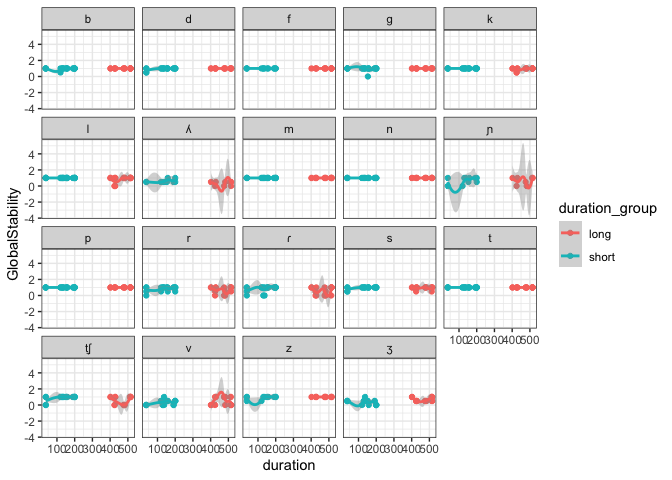
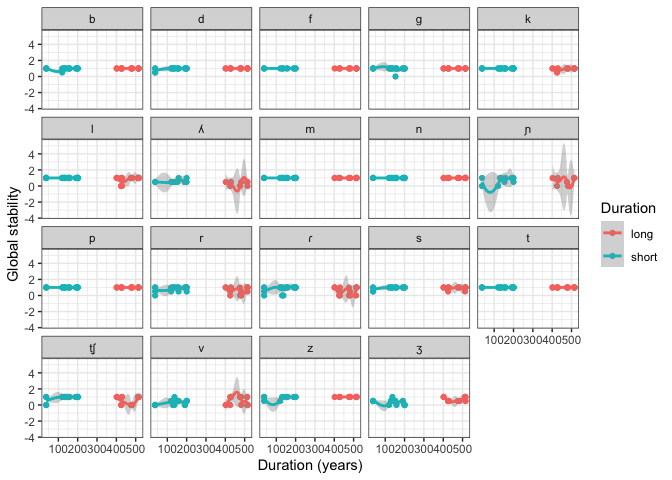
edits

diff --git a/README.md b/README.md
@@ -1,16 +1,15 @@
 Supplementary materials for: Consonant stability in Portuguese-based
 creoles
 ================
-Steven Moran, Carlos Silva and Nicholas A. Lester
 (03 January, 2023)
 
 -   <a href="#overview" id="toc-overview">Overview</a>
 -   <a href="#creole-stability" id="toc-creole-stability">Creole
     stability</a>
 -   <a href="#duration" id="toc-duration">Duration</a>
-    -   <a href="#duration-efects-on-the-segment-level"
-        id="toc-duration-efects-on-the-segment-level">Duration efects on the
-        segment level</a>
+-   <a href="#duration-effects-on-the-segment-level"
+    id="toc-duration-effects-on-the-segment-level">Duration effects on the
+    segment level</a>
 -   <a href="#segment-stability" id="toc-segment-stability">Segment
     stability</a>
 -   <a href="#word-position" id="toc-word-position">Word position</a>
@@ -18,13 +17,16 @@ Steven Moran, Carlos Silva and Nicholas A. Lester
     id="toc-conditions-of-contact">Conditions of contact</a>
 -   <a href="#references" id="toc-references">References</a>
 
+<!-- author: "Steven Moran, Carlos Silva and Nicholas A. Lester" -->
+
 # Overview
 
 <!-- Supplementary materials for [Consonant Stability in Portuguese-based creoles](https://www.overleaf.com/project/60cdac0dd5871295e0f608fc). Silva, Carlos and Steven Moran. Work in progress. -->
 
 Supplementary materials for, “Consonant Stability in Portuguese-based
-creoles”. In this report, we provide code in R (R Core Team 2021) and we
-use these R libraries (Wickham et al. 2019; Xie 2021; Slowikowski 2022):
+creoles”. In this report, we provide code in R (RStudio Team 2020) and
+we use these R libraries (Wickham et al. 2019; Xie 2021; Slowikowski
+2022):
 
 ``` r
 library(tidyverse)
@@ -147,7 +149,9 @@ overall stability.
 
 ``` r
 ggplot(creole_stability, aes(x=duration, y=MeanStability)) +
-  geom_point()
+  geom_point() +
+  xlab("Duration (years)") +
+  ylab("Mean stability")
 ```
 
 ![](README_files/figure-gfm/unnamed-chunk-11-1.png)<!-- -->
@@ -155,7 +159,9 @@ ggplot(creole_stability, aes(x=duration, y=MeanStability)) +
 ``` r
 ggplot(creole_stability, aes(x=duration, y=MeanStability)) +
   geom_point() +
-  geom_text_repel(aes(label = creole_stability$Language))
+  geom_text_repel(aes(label = creole_stability$Language)) +
+  xlab("Duration (years)") +
+  ylab("Mean stability")
 ```
 
 ![](README_files/figure-gfm/duration_mean_stability-1.png)<!-- -->
@@ -200,7 +206,9 @@ tmp_long <- creole_stability %>% filter(duration > 200)
 
 ``` r
 ggplot(tmp_short, aes(x=duration, y=MeanStability)) +
-  geom_point()
+  geom_point() +
+  xlab("Duration (years)") +
+  ylab("Mean stability")
 ```
 
 ![](README_files/figure-gfm/unnamed-chunk-14-1.png)<!-- -->
@@ -208,22 +216,18 @@ ggplot(tmp_short, aes(x=duration, y=MeanStability)) +
 ``` r
 ggplot(tmp_short, aes(x=duration, y=MeanStability)) +
   geom_point() +
-  geom_text(label=tmp_short$Language)
+  geom_text_repel(aes(label = tmp_short$Language)) +
+  xlab("Duration (years)") +
+  ylab("Mean stability")
 ```
 
 ![](README_files/figure-gfm/unnamed-chunk-14-2.png)<!-- -->
 
 ``` r
-ggplot(tmp_short, aes(x=duration, y=MeanStability)) +
-  geom_point() +
-  geom_text_repel(aes(label = tmp_short$Language))
-```
-
-![](README_files/figure-gfm/unnamed-chunk-14-3.png)<!-- -->
-
-``` r
 ggplot(tmp_long, aes(x=duration, y=MeanStability)) +
-  geom_point()
+  geom_point() +
+  xlab("Duration (years)") +
+  ylab("Mean stability")
 ```
 
 ![](README_files/figure-gfm/unnamed-chunk-15-1.png)<!-- -->
@@ -231,18 +235,12 @@ ggplot(tmp_long, aes(x=duration, y=MeanStability)) +
 ``` r
 ggplot(tmp_long, aes(x=duration, y=MeanStability)) +
   geom_point() +
-  geom_text(label=tmp_long$Language)
+  geom_text_repel(aes(label = tmp_long$Language)) +
+  xlab("Duration (years)") +
+  ylab("Mean stability")
 ```
 
 ![](README_files/figure-gfm/unnamed-chunk-15-2.png)<!-- -->
-
-``` r
-ggplot(tmp_long, aes(x=duration, y=MeanStability)) +
-  geom_point() +
-  geom_text_repel(aes(label = tmp_long$Language))
-```
-
-![](README_files/figure-gfm/unnamed-chunk-15-3.png)<!-- -->
 
 Or perhaps a single model with an interaction term MeanSim \~ duration,
 group \* duration.
@@ -275,12 +273,15 @@ summary(msd)
 ``` r
 ggplot(creole_stability, aes(x = duration, y = MeanStability, color = duration_group)) +
   geom_smooth(method = "lm") +
-  geom_point()
+  geom_point() +
+  xlab("Duration (years)") +
+  ylab("Mean stability") +
+  labs(color = "Duration group")
 ```
 
     ## `geom_smooth()` using formula 'y ~ x'
 
-![](README_files/figure-gfm/unnamed-chunk-16-1.png)<!-- -->
+![](README_files/figure-gfm/duration_groups-1.png)<!-- -->
 
 The variability in the two groups is very different. The direction of
 the effect is interesting: shorter durations yield more stability more
@@ -434,7 +435,7 @@ note that the model detected a mean difference between duration groups,
 with the short group having (slightly) lower mean stability. This
 appears to be the case but – again – so few observations.
 
-## Duration efects on the segment level
+# Duration effects on the segment level
 
 Does duration affect the stability values of specific segments or
 segment classes?
@@ -443,7 +444,10 @@ segment classes?
 ggplot(database, aes(duration, MannerStability, colour=duration_group)) + 
   geom_point() + 
   geom_smooth(method = "lm") +
-  facet_wrap(~Class)
+  facet_wrap(~Class) +
+  xlab("Duration (years)") +
+  ylab("Manner stability") +
+  labs(color="Duration")
 ```
 
     ## `geom_smooth()` using formula 'y ~ x'
@@ -458,7 +462,10 @@ ggplot(database, aes(duration, MannerStability, colour=duration_group)) +
 ggplot(database, aes(duration, GlobalStability, colour=duration_group)) + 
   geom_point() + 
   geom_smooth() +
-  facet_wrap(~Class)
+  facet_wrap(~Class) +
+  xlab("Duration (years)") +
+  ylab("Global stability") +
+  labs(color="Duration")
 ```
 
     ## `geom_smooth()` using method = 'loess' and formula 'y ~ x'
@@ -473,7 +480,10 @@ ggplot(database, aes(duration, GlobalStability, colour=duration_group)) +
 ggplot(database, aes(duration, PlaceStability, colour=duration_group)) + 
   geom_point() + 
   geom_smooth(method = "lm") +
-  facet_wrap(~LexifierPhoneme)
+  facet_wrap(~LexifierPhoneme)  +
+  xlab("Duration (years)") +
+  ylab("Place stability") +
+  labs(color="Duration")
 ```
 
     ## `geom_smooth()` using formula 'y ~ x'
@@ -488,7 +498,10 @@ ggplot(database, aes(duration, PlaceStability, colour=duration_group)) +
 ggplot(database, aes(duration, MannerStability, colour=duration_group)) + 
   geom_point() + 
   geom_smooth() +
-  facet_wrap(~LexifierPhoneme)
+  facet_wrap(~LexifierPhoneme) +
+  xlab("Duration (years)") +
+  ylab("Mean stability") +
+  labs(color="Duration")
 ```
 
     ## `geom_smooth()` using method = 'loess' and formula 'y ~ x'
@@ -503,7 +516,10 @@ ggplot(database, aes(duration, MannerStability, colour=duration_group)) +
 ggplot(database, aes(duration, GlobalStability, colour=duration_group)) + 
   geom_point() + 
   geom_smooth() +
-  facet_wrap(~LexifierPhoneme)
+  facet_wrap(~LexifierPhoneme) +
+  xlab("Duration (years)") +
+  ylab("Global stability") +
+  labs(color="Duration")
 ```
 
     ## `geom_smooth()` using method = 'loess' and formula 'y ~ x'
@@ -534,27 +550,22 @@ consonant_stability_class <- cbind(consonant_stability, class)
 
 Next, we plot the results.
 
-``` r
-ggplot(consonant_stability, aes(y = mmanner, x = mplace, label = LexifierPhoneme, color=class)) +
-  geom_point(position= "dodge") + 
-  geom_text(aes(label=LexifierPhoneme), hjust=3, vjust=0) +
-  theme(axis.title.x = element_blank(),
-        axis.title.y = element_blank())
-```
-
     ## Warning: Width not defined. Set with `position_dodge(width = ?)`
 
 ![](README_files/figure-gfm/unnamed-chunk-24-1.png)<!-- -->
 
 ``` r
-ggplot(consonant_stability, aes(y = mmanner, x = mplace, fill=class)) +
+ggplot(consonant_stability, aes(y = mmanner, x = mplace)) +
   geom_point(position= "dodge", aes(color=class)) + 
-  geom_text_repel(aes(label = LexifierPhoneme))
+  geom_text_repel(aes(label = LexifierPhoneme)) +
+  xlab("Mean stability (place of articulation)") +
+  ylab("Mean (manner of articulation)") +
+  labs(color="Segment class")
 ```
 
     ## Warning: Width not defined. Set with `position_dodge(width = ?)`
 
-![](README_files/figure-gfm/unnamed-chunk-24-2.png)<!-- -->
+![](README_files/figure-gfm/stability_by_consonant-1.png)<!-- -->
 
 Here is an alternative view for the global results.
 
@@ -771,8 +782,8 @@ Some indication that place stability is more often associated with
 shorter periods of influence.
 
 Numerically, the manner/place category has 50% of its observations in
-the longest durations from the sample. At the same time, no manner/no
-place is associated with the shortest durations.
+the longest duration from the sample. At the same time, no manner/no
+place is associated with the shortest duration.
 
 # Word position
 
@@ -808,7 +819,8 @@ position_results$Position <- factor(position_results$Position, levels = c('word-
 ggplot(position_results, aes(x = LexifierPhoneme, y = m, fill = Position)) + 
   geom_col(position = position_dodge2(width = 0.9, preserve = "single")) +
   theme(axis.title.x = element_blank(),
-        axis.title.y = element_blank())
+        axis.title.y = element_blank()) +
+  labs(x = "Lexifier phoneme", y = "Mean stability", fill = "Word position")
 ```
 
 ![](README_files/figure-gfm/unnamed-chunk-32-1.png)<!-- -->
@@ -823,7 +835,7 @@ ggplot(position_results) +
            stat = "identity", 
            show.legend = TRUE,
            position = "dodge2") +
-  labs(x = "Stability score", y = "Phoneme", fill = "Position")
+  labs(x = "Stability score", y = "Phoneme", fill = "Word position")
 ```
 
 ![](README_files/figure-gfm/unnamed-chunk-33-1.png)<!-- -->
@@ -831,7 +843,6 @@ ggplot(position_results) +
 Plot the results for segments that show differences.
 
 ``` r
-# TODO: update what we show, flip horizontally, change colors
 position_results1 <- position_results %>% pivot_wider(names_from = Position, values_from = m)
 
 different_position <- subset(position_results1, position_results1$`word-initial` != position_results1$`word-medial` | position_results1$`word-final` != position_results1$`word-medial`)
@@ -842,7 +853,8 @@ different_position_results$Position <- factor(different_position_results$Positio
 
 ggplot(different_position_results, 
        aes(x = LexifierPhoneme, y = m, fill = Position)) + 
-  geom_col(position = position_dodge2(width = 0.9, preserve = "single"))
+  geom_col(position = position_dodge2(width = 0.9, preserve = "single")) +
+  labs(x = "Lexifier phoneme", y = "Mean stability", fill = "Word position")
 ```
 
     ## Warning: Removed 8 rows containing missing values (geom_col).
@@ -860,7 +872,7 @@ ggplot(different_position_results) +
            stat = "identity", 
            show.legend = TRUE,
            position = "dodge2") +
-  labs(x = "Stability score", y = "Phoneme", fill = "Position")
+  labs(x = "Stability score", y = "Phoneme", fill = "Word position")
 ```
 
     ## Warning: Removed 8 rows containing missing values (geom_bar).
@@ -870,10 +882,10 @@ ggplot(different_position_results) +
 # Conditions of contact
 
 The finding that “slavery has a negative impact on stability” was mainly
-observational and also literature-based (e.g. Faraclas et al. 2007;
-Carvalho & Lucchesi 2016; Upper Guinea light creoles = slavery but with
-lighter contact conditions vs Gulf of Guinea hard creole = slavery and
-harder contact conditions).
+observational and also literature-based (e.g. Faraclas et al. (2007);
+Carvalho and Lucchesi (2016); Upper Guinea light creoles = slavery but
+with lighter contact conditions versus Gulf of Guinea hard creole =
+slavery and harder contact conditions).
 
 Test whether there’s a relation between type of contact situation and
 overall mean stability.
@@ -905,7 +917,10 @@ summary(m)
 ``` r
 ggplot(creole_stability, aes(x = ContactConditions, y = MeanStability, fill = ContactConditions)) +
   geom_smooth(method = "lm") +
-  geom_violin()
+  geom_violin()  +
+  xlab("Contact condition") +
+  ylab("Mean stability") +
+  guides(fill="none")
 ```
 
     ## `geom_smooth()` using formula 'y ~ x'
@@ -942,7 +957,10 @@ summary(m)
 ``` r
 ggplot(creole_stability, aes(x = duration, y = MeanStability, color = ContactConditions)) +
   geom_smooth(method = "lm") +
-  geom_point()
+  geom_point() +
+  xlab("Duration (years)") +
+  ylab("Mean stability") +
+  labs(color="Contact conditions")
 ```
 
     ## `geom_smooth()` using formula 'y ~ x'
@@ -953,11 +971,29 @@ ggplot(creole_stability, aes(x = duration, y = MeanStability, color = ContactCon
 
 <div id="refs" class="references csl-bib-body hanging-indent">
 
+<div id="ref-CarvalhoLucchesi16" class="csl-entry">
+
+Carvalho, Ana Maria, and Dante Lucchesi. 2016. “Portuguese in Contact.”
+In *The Handbook of Portuguese Linguistics*, 41–55. Wiley Blackwell.
+<https://doi.org/10.1002/9781118791844.ch3>.
+
+</div>
+
+<div id="ref-Faraclasetal07" class="csl-entry">
+
+Faraclas, Nicholas, Don Walicek, Mervyn Alleyne, Wilfredo Geigel, and
+Luis Ortiz. 2007. “The Complexity That Really Matters: The Role of
+Political Economy in Creole Genesis.” In *Deconstructing Creole: New
+Horizons in Language Creation*, edited by U. Ansaldo, S. J. Matthews,
+and L. Lim, 227–64. John Benjamins.
+<https://doi.org/10.1075/tsl.73.12far>.
+
+</div>
+
 <div id="ref-R" class="csl-entry">
 
-R Core Team. 2021. *R: A Language and Environment for Statistical
-Computing*. Vienna, Austria: R Foundation for Statistical Computing.
-<https://www.R-project.org/>.
+RStudio Team. 2020. *RStudio: Integrated Development Environment for r*.
+Boston, MA: RStudio, PBC. <http://www.rstudio.com/>.
 
 </div>
 
